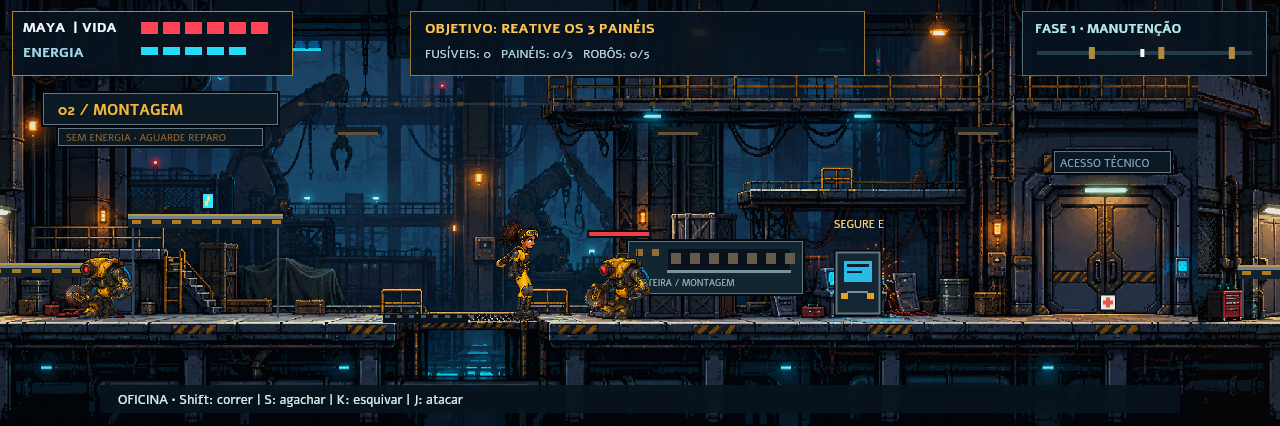
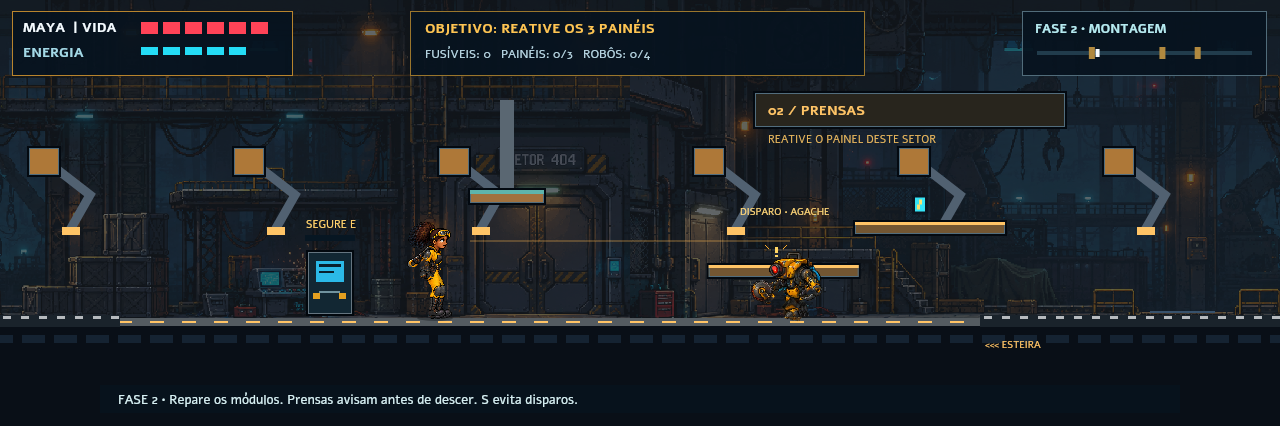
Publica campanha de tres fases de SETOR 404 e atualiza apresentacao

diff --git a/jogos/setor-404/campaign.js b/jogos/setor-404/campaign.js
@@ -1,0 +1,117 @@
+/* Campaign content: independent world rules, bosses and rendering. Maya's rig is unchanged. */
+(function(global){
+ 'use strict';
+ const F=318,W=3840,clamp=(x,a,b)=>Math.max(a,Math.min(b,x));
+ const titles=['MANUTENÇÃO','LINHA FORA DE CONTROLE','NÚCLEO 404'];
+ function create(stage=1){
+  const l=Phase1.create();l.stage=stage;l.title=titles[stage-1];l.projectiles=[];
+  l.belts=[];l.presses=[];l.locks=[];l.boss=null;
+  if(stage===1)return l;
+  l.enemies=l.enemies.slice(0,4);
+  l.enemies.forEach((e,i)=>{Object.assign(e,{x:[620,1440,2070,2630][i],min:[500,1300,1950,2520][i],max:[810,1620,2250,2740][i],hp:3,maxHP:3,elite:false});e.px=e.home=e.x;e.kind=(i===1||stage===3&&i===3)?'welder':'guard';e.id=e.kind==='welder'?(stage===2?'SOLDADOR S-02':'VIGIA N-03'):'R-04';});
+  l.stations=[{x:980,name:stage===2?'ALIMENTAÇÃO MX':'CIRCUITO A',done:false,charge:0},{x:2240,name:stage===2?'SINCRONISMO':'CIRCUITO B',done:false,charge:0},{x:2870,name:stage===2?'CONTROLE MX':'CIRCUITO C',done:false,charge:0}];
+  l.pickups=[{x:430,y:250,type:'parts',taken:false},{x:1570,y:205,type:'energy',taken:false},{x:2470,y:302,type:'health',taken:false},{x:3090,y:302,type:'energy',taken:false},{x:3160,y:302,type:'health',taken:false}];
+  l.platforms=[{x:350,y:267,w:150},{x:1350,y:265,w:150},{x:1505,y:222,w:150},{x:2460,y:267,w:145},{x:2660,y:220,w:150}];
+  l.hazards=stage===2?[{x:1800,w:65,offset:0}]:[{x:1670,w:115,offset:0,duck:true},{x:2380,w:70,offset:65},{x:3030,w:80,offset:110,duck:true}];
+  if(stage===2){l.belts=[{x:370,w:400,speed:0.65},{x:1630,w:400,speed:-0.7}];l.presses=[{x:1120,w:74,offset:0},{x:2390,w:80,offset:100}];l.platforms[1].moveX=42;}
+  else{l.locks=[{x:1240,station:0},{x:2500,station:1}];l.platforms[1].moveY=21;l.platforms[3].moveY=24;}
+  l.platforms.forEach(p=>{p.baseX=p.x;p.baseY=p.y;p.previousX=p.x;p.previousY=p.y;});
+  l.boss={x:3380,hp:stage===2?8:10,maxHP:stage===2?8:10,alive:true,mode:'idle',timer:0,target:3380,stage,name:stage===2?'BRAÇO MX-02':'SENTINELA 404',hits:0};
+  return l;
+ }
+ function count(l){return l.stations.filter(s=>s.done).length;}
+ function vulnerable(l){return l.boss&&l.boss.alive&&count(l)>=(l.stage===2?2:3)&&l.boss.mode==='recover';}
+ function damageBoss(l,hero){
+  const b=l.boss;if(!b||!b.alive||Math.abs(hero.x+32-b.x)>106||Math.sign(b.x-hero.x-32||hero.face)!==hero.face||Math.abs(hero.y+hero.h-F)>48)return null;
+  if(!vulnerable(l))return 'shield';
+  b.hp--;b.hits=8;if(b.hp<=0){b.alive=false;b.mode='dead';return 'dead';}return 'hit';
+ }
+ function preUpdate(l,hero,frame){
+  if(l.stage===1)return;
+  l.previousHeroX=hero.x;
+  for(const p of l.platforms){
+   p.previousX=p.x;p.previousY=p.y;
+   p.x=p.baseX+(p.moveX||0)*Math.sin(frame/48);p.y=p.baseY+(p.moveY||0)*Math.sin(frame/58);
+   if(hero.ground&&Math.abs(hero.y+hero.h-p.previousY)<1&&hero.x+44>p.previousX&&hero.x+20<p.previousX+p.w){hero.x+=p.x-p.previousX;hero.y+=p.y-p.previousY;}
+  }
+ }
+ function shot(l,x,y,targetX,targetY,speed=3.8){const dx=targetX-x,dy=targetY-y,d=Math.max(1,Math.hypot(dx,dy));l.projectiles.push({x,y,vx:dx/d*speed,vy:dy/d*speed,life:150});}
+ function stepEnemy(l,e,hero,enemies,onHit,onCue,stride){
+  if(e.kind!=='welder'||!e.alive||e.mode==='hurt'){Phase1.stepEnemy(e,hero,enemies,onHit,onCue,stride);return;}
+  e.px=e.x;e.previousPhase=e.phase;e.vx=0;e.timer++;
+  const dx=hero.x+32-e.x;e.face=Math.sign(dx)||e.face;
+  if(e.mode==='windup'){
+   if(e.timer>=48){shot(l,e.x+e.face*25,F-77,e.x+e.face*500,F-77);onCue('robotAttack',e.x);e.mode='recover';e.timer=0;}
+  }else if(e.mode==='recover'){if(e.timer>=65){e.mode='patrol';e.timer=0;}}
+  else if(Math.abs(dx)<440&&hero.hp>0){e.mode='windup';e.timer=0;}
+  else{e.timer--;Phase1.stepEnemy(e,hero,enemies,onHit,onCue,stride);}
+ }
+ function stepWorld(l,hero,frame,hurt,sound){
+  if(l.stage===1)return;
+  const beforeX=l.previousHeroX===undefined?hero.x:l.previousHeroX;
+  if(hero.ground&&Math.abs(hero.y+hero.h-F)<1)for(const belt of l.belts)if(hero.x+32>belt.x&&hero.x+32<belt.x+belt.w)hero.x=clamp(hero.x+belt.speed,18,l.exit-60);
+  for(const lock of l.locks)if(!l.stations[lock.station].done){if(beforeX+44<=lock.x&&hero.x+44>lock.x)hero.x=lock.x-44;else if(beforeX+20>=lock.x+14&&hero.x+20<lock.x+14)hero.x=lock.x-6;}
+  for(const p of l.presses)if(pressMode(p,frame)==='on'&&hero.x+44>p.x&&hero.x+20<p.x+p.w)hurt(p.x+p.w/2);
+  for(let i=l.projectiles.length-1;i>=0;i--){const p=l.projectiles[i];p.x+=p.vx;p.y+=p.vy;p.life--;
+   const hit=p.x+5>hero.x+20&&p.x-5<hero.x+44&&p.y+5>hero.y&&p.y-5<hero.y+hero.h;
+   if(hit)hurt(p.x);if(hit||p.life<=0||p.x<0||p.x>W)l.projectiles.splice(i,1);
+  }
+  const b=l.boss;if(!b||!b.alive)return;b.hits=Math.max(0,b.hits-1);
+  if(Math.abs(hero.x+32-b.x)>520||hero.hp<=0){b.mode='idle';b.timer=0;return;}
+  b.timer++;
+  if(b.mode==='idle'){b.mode='windup';b.timer=0;b.target=clamp(hero.x+32,b.x-210,b.x+210);sound('robotAttack',b.x);}
+  else if(b.mode==='windup'){
+   if(l.stage===3&&b.timer===24){shot(l,b.x,F-77,hero.x+32,F-77,4);if(b.hp<=4)shot(l,b.x,F-40,hero.x+32,F-40,3.2);}
+   if(b.timer>=(l.stage===3&&b.hp<=4?42:58)){b.mode='attack';b.timer=0;}
+  }else if(b.mode==='attack'){
+   if(b.timer===6&&Math.abs(hero.x+32-b.target)<62&&hero.y+hero.h>F-52)hurt(b.target);
+   if(b.timer>=18){b.mode='recover';b.timer=0;}
+  }else if(b.mode==='recover'&&b.timer>=(l.stage===2?120:b.hp<=4?90:115)){b.mode='idle';b.timer=0;}
+ }
+ function pressMode(p,frame){const t=(frame+p.offset)%240;return t<140?'off':t<185?'warning':t<214?'on':'off';}
+ function gateReady(l){return count(l)===3&&(!l.boss||!l.boss.alive);}
+ function box(g,x,y,w,h,c){g.fillStyle='#030910';g.fillRect(x-2,y-2,w+4,h+4);g.fillStyle=c;g.fillRect(x,y,w,h);g.strokeStyle='#526d7d';g.lineWidth=1;g.strokeRect(x+.5,y+.5,w-1,h-1);}
+ function drawWorld(g,bg,l,frame,robotRig){
+  if(l.stage===1){Phase1.drawWorld(g,bg,l,frame);return;}
+  const core=l.stage===3,accent=core?'#71e9ed':'#ffc466';
+  g.fillStyle=core?'#081022':'#171d23';g.fillRect(0,0,W,426);
+  for(let s=0;s<3;s++){
+   const base=s*1280;g.save();g.globalAlpha=core?.18:.32;g.drawImage(bg,base,0,1280,426);g.restore();
+   if(core){
+    for(let j=0;j<9;j++){const x=base+55+j*137;box(g,x,156,92,154,'#111d35');for(let row=0;row<9;row++){g.fillStyle='#253454';g.fillRect(x+9,165+row*15,74,9);g.fillStyle=l.stations[s].done?'#57fbc0':(frame+row*19+j*23)%110<50?'#8a6be6':'#328fbb';g.fillRect(x+65,168+row*15,9,3);}}
+   }else{
+    for(let j=0;j<6;j++){const x=base+80+j*205;g.strokeStyle='#516171';g.lineWidth=9;g.beginPath();g.moveTo(x,160);g.lineTo(x+45,195);g.lineTo(x+25,230);g.stroke();box(g,x-16,148,30,27,'#ae7838');g.fillStyle=accent;g.fillRect(x+17,227,18,8);}
+   }
+   box(g,base+125,93,310,34,core?'#151c36':'#28251d');g.fillStyle=accent;g.font='bold 14px monospace';g.fillText(['01 / '+(core?'ACESSO RESTRITO':'ESTEIRAS'), '02 / '+(core?'CIRCUITOS':'PRENSAS'),'03 / '+(core?'SENTINELA 404':'BRAÇO MX-02')][s],base+138,115);
+   g.font='11px monospace';g.fillStyle=l.stations[s].done?'#70ffce':'#e5b45b';g.fillText(l.stations[s].done?'CONTROLE RESTAURADO':'REATIVE O PAINEL DESTE SETOR',base+138,143);
+  }
+  g.fillStyle=core?'#283a53':'#545b60';g.fillRect(0,F,W,8);g.fillStyle='#090f17';g.fillRect(0,F+8,W,100);
+  for(let x=0;x<W;x+=32){g.fillStyle=accent;g.fillRect(x,F+3,14,2);g.fillStyle='#152332';g.fillRect(x,F+17,23,8);}
+  for(const p of l.platforms){box(g,p.x,p.y,p.w,12,core?'#22516c':'#735632');g.fillStyle=accent;g.fillRect(p.x,p.y,p.w,3);}
+  for(const b of l.belts){g.fillStyle='#1a232b';g.fillRect(b.x,F-3,b.w,12);for(let j=0;j<b.w;j+=18){const x=((j+frame*b.speed*2)%b.w+b.w)%b.w;g.fillStyle='#b6babe';g.fillRect(b.x+x,F-2,8,3);}g.font='10px monospace';g.fillStyle=accent;g.fillText(b.speed>0?'ESTEIRA >>>':'<<< ESTEIRA',b.x+5,F+30);}
+  for(const p of l.presses){const mode=pressMode(p,frame),y=mode==='on'?F-12:190;g.fillStyle='#5a6772';g.fillRect(p.x+p.w/2-7,100,14,y-100);box(g,p.x,y,p.w,13,'#a0713e');g.fillStyle=mode==='warning'?'#ffd45d':mode==='on'?'#ff5c50':'#5eb4ab';g.fillRect(p.x,y,p.w,4);if(mode!=='off'){g.fillStyle=mode==='warning'?'#ffbf3333':'#ed4c4544';g.fillRect(p.x,y+13,p.w,F-y-13);g.font='10px monospace';g.fillStyle='#ffe6a5';g.fillText(mode==='warning'?'PRENSA: SAIA!':'PERIGO',p.x-4,176);}}
+  for(const lock of l.locks){const open=l.stations[lock.station].done;g.fillStyle=open?'#54edbd':'#ad72ef';g.fillRect(lock.x,152,14,open?10:166);g.font='10px monospace';g.fillText(open?'ISOLADO':'CIRCUITO '+(lock.station+1),lock.x-25,143);}
+  for(const h of l.hazards){const mode=Phase1.hazardMode(h,frame),y=h.duck?F-77:F-7;g.fillStyle=mode==='on'?'#ed70f4':mode==='warning'?'#ffd16a':'#38526c';g.fillRect(h.x,y,h.w,mode==='on'?5:2);if(h.duck){g.font='10px monospace';g.fillText('S: AGACHE',h.x,y-11);}}
+  for(const p of l.projectiles){g.fillStyle=core?'#ee8aff':'#ffb14c';g.fillRect(p.x-5,p.y-4,10,8);g.fillStyle='#fff3d1';g.fillRect(p.x-2,p.y-2,4,4);}
+  for(const e of l.enemies)if(e.alive&&e.kind==='welder'&&e.mode==='windup'){g.strokeStyle='#ffb64f88';g.lineWidth=1;g.beginPath();g.moveTo(e.x,F-77);g.lineTo(e.x+e.face*320,F-77);g.stroke();g.font='10px monospace';g.fillStyle='#ffd677';g.fillText('DISPARO • AGACHE',e.x-50,F-103);}
+  drawBoss(g,l,frame,robotRig);
+  box(g,l.exit-45,190,90,126,'#172a38');g.fillStyle=l.gateOpen?'#55f2bc':'#916d39';g.fillRect(l.exit-40,195,80,6);g.font='11px monospace';g.fillText(l.gateOpen?'SAÍDA LIVRE':'SAÍDA BLOQUEADA',l.exit-55,179);
+ }
+ function drawBoss(g,l,frame,robotRig){
+  const b=l.boss;if(!b)return;const core=l.stage===3,v=vulnerable(l),color=!b.alive?'#50dfb0':v?'#ffd776':core?'#bb8bf5':'#e3a14a';
+  if(core&&robotRig){
+   g.save();g.translate(b.x,F);g.scale(1.5,1.5);robotRig.render(g,0,0,{face:-1,phase:frame*.01,moving:false,mode:b.alive?(b.mode==='idle'?'patrol':b.mode):'dead',progress:b.alive?clamp(b.timer/(b.mode==='recover'?115:b.mode==='attack'?18:58),0,1):1,hit:b.hits>0});g.restore();
+  }else{box(g,b.x-43,F-85,86,85,'#233144');g.fillStyle=color;g.fillRect(b.x-28,F-67,56,44);g.fillStyle='#101c29';g.fillRect(b.x-13,F-58,26,26);}
+  g.fillStyle=b.hits?'#fff':color;g.fillRect(b.x-7,F-52,14,14);
+  if(b.alive){
+   if(core){g.strokeStyle=color;g.lineWidth=3;g.beginPath();g.arc(b.x,F-48,48,frame*.02,frame*.02+Math.PI*1.6);g.stroke();}
+   else{const endX=b.mode==='idle'?b.x-70:b.target,endY=b.mode==='attack'?F-10:b.mode==='windup'?F-120:F-140;g.strokeStyle='#101923';g.lineWidth=22;g.beginPath();g.moveTo(b.x,F-65);g.lineTo(b.x-55,F-175);g.lineTo(endX,endY);g.stroke();g.strokeStyle=color;g.lineWidth=12;g.stroke();for(const [x,y] of [[b.x,F-65],[b.x-55,F-175],[endX,endY]]){g.fillStyle='#ccd3cb';g.fillRect(x-7,y-7,14,14);g.fillStyle='#304557';g.fillRect(x-3,y-3,6,6);}g.fillStyle='#bac7c7';g.fillRect(endX-22,endY-8,44,17);}
+   if(b.mode==='windup'||b.mode==='attack'){g.fillStyle=b.mode==='windup'?'#ffbf3a77':'#ff4a4aa0';g.fillRect(b.target-60,F-4,120,6);g.strokeStyle=color;g.lineWidth=1;g.strokeRect(b.target-60,F-58,120,56);}
+  }
+  box(g,b.x-142,86,284,43,'#0c1522');g.font='bold 12px monospace';g.fillStyle=color;g.fillText(b.name+(b.alive?'':' • DESATIVADO'),b.x-132,102);
+  if(core&&b.alive){g.font='10px monospace';g.fillStyle=color;g.fillText(count(l)<3?'ETAPA 1 / ESCUDO':b.hp>4?'ETAPA 2 / SUPERAQUECIMENTO':'ETAPA 3 / NÚCLEO INSTÁVEL',b.x-138,159);}
+  g.fillStyle='#423344';g.fillRect(b.x-130,110,260,7);g.fillStyle=color;g.fillRect(b.x-130,110,260*b.hp/b.maxHP,7);
+  g.font='10px monospace';g.fillStyle='#e0d8eb';const text=!b.alive?'CONTROLE RECUPERADO':v?'NÚCLEO EXPOSTO • ATAQUE J':count(l)<(core?3:2)?'DESLIGUE '+(core?'3 CIRCUITOS':'2 PAINÉIS')+' PARA REMOVER O ESCUDO':b.mode==='recover'?'RECUPERAÇÃO':'ESQUIVE / PULE • AGUARDE ABERTURA';g.fillText(text,b.x-138,144);
+ }
+ global.Campaign={create,titles,count,vulnerable,damageBoss,preUpdate,stepEnemy,stepWorld,gateReady,pressMode,drawWorld};
+})(typeof window!=='undefined'?window:globalThis);

diff --git a/jogos/setor-404/game.js b/jogos/setor-404/game.js
@@ -6,7 +6,7 @@ bg.src='assets/cenario.png';mayaSource.src='assets/maya-rig-source.png';robotSou
 const FLOOR=Phase1.FLOOR,STEP=1000/60,WALK_SPEED=1.6,RUN_SPEED=2.9,CROUCH_SPEED=0.75,DEATH_TICKS=96,DODGE_TICKS=28;
 const keys=new Set(),pressed=new Set(),particles=[],dodgeTrails=[];
 const maya={},camera={x:0,previous:0};
-let level=Phase1.create(),ready=false,active=false,paused=false,won=false,mayaRig,robotRig;
+let stage=1,level=Campaign.create(stage),ready=false,active=false,paused=false,won=false,mayaRig,robotRig;
 let frame=0,lastTime=null,accumulator=0,toastTime=0,toastText='',fuses=0,score=0,defeated=0;
 const audio=SectorAudio;
 const clamp=(n,a,b)=>Math.max(a,Math.min(b,n));
@@ -27,21 +27,23 @@ function placeMaya(x){
     crouch:0,previousCrouch:0,run:0,previousRun:0,takeoff:0,jumpFlight:false,landing:0,landingStrength:0,
     dead:false,deathTime:0,previousDeath:0});
 }
-function reset(){
-  level=Phase1.create();frame=0;fuses=0;score=0;defeated=0;particles.length=0;
+function reset(nextStage=stage){
+  stage=clamp(Number(nextStage)||1,1,3);level=Campaign.create(stage);frame=0;fuses=0;score=0;defeated=0;particles.length=0;
   placeMaya(125);dodgeTrails.length=0;camera.x=0;camera.previous=0;
-  begin();notify('OFICINA • Shift: correr | S: agachar | K: esquivar | J: atacar',420);
+  begin();notify(stage===1?'OFICINA • Shift: correr | S: agachar | K: esquivar | J: atacar':stage===2?'FASE 2 • Repare os módulos. Prensas avisam antes de descer. S evita disparos.':'FASE 3 • Isole os circuitos para abrir portas. O núcleo só recebe dano exposto.',480);
 }
 function begin(){
   releaseInput();active=true;won=false;paused=false;lastTime=null;accumulator=0;
   document.querySelector('#start').hidden=true;document.querySelector('#result').hidden=true;
   document.querySelector('#pause-overlay').hidden=true;document.querySelector('#pause').textContent='PAUSAR';
+  document.querySelector('#stage-heading').textContent='FASE '+stage+' / '+level.title;
   audio.setPaused(false);audio.setIntensity(0);audio.unlock();updateSoundButton();
 }
 function respawn(){
   placeMaya(level.checkpoint);dodgeTrails.length=0;particles.length=0;
   for(const e of level.enemies){if(!e.alive)continue;e.x=e.home;e.px=e.home;e.hp=e.maxHP;e.mode='patrol';e.timer=0;e.vx=0;}
   for(const s of level.stations)s.charge=0;
+  level.projectiles.length=0;if(level.boss&&level.boss.alive){level.boss.hp=level.boss.maxHP;level.boss.mode='idle';level.boss.timer=0;}
   camera.x=clamp(maya.x-420,0,Phase1.WIDTH-1280);camera.previous=camera.x;
   begin();notify('CHECKPOINT • Energia e vida restauradas.');
 }
@@ -59,7 +61,8 @@ function updateSoundButton(){
 document.querySelector('#play').onclick=()=>{if(ready)reset();};
 document.querySelector('#restart').onclick=()=>{if(ready)reset();};
 document.querySelector('#retry').onclick=()=>{if(ready)respawn();};
-document.querySelector('#again').onclick=()=>{if(ready)reset();};
+document.querySelector('#again').onclick=()=>{if(ready)reset(won&&stage<3?stage+1:won?1:stage);};
+for(const number of [1,2,3])document.querySelector('#stage'+number).onclick=()=>{if(ready)reset(number);};
 document.querySelector('#pause').onclick=()=>setPaused(!paused);
 document.querySelector('#resume').onclick=()=>setPaused(false);
 document.querySelector('#sound').onclick=()=>{audio.setEnabled(!audio.isEnabled());if(active&&!paused&&!maya.dead)audio.unlock();updateSoundButton();};
@@ -109,6 +112,9 @@ function mayaState(t=1){
 }
 function strike(){
   sound('attack');
+  const bossHit=Campaign.damageBoss(level,maya);
+  if(bossHit==='shield'){sound('robotHurt');notify('ESCUDO ATIVO • Repare os painéis e ataque na recuperação.',100);}
+  if(bossHit==='hit'||bossHit==='dead'){puff(level.boss.x,FLOOR-45,12,'#ffdf8b');sound(bossHit==='dead'?'explosion':'robotHurt');if(bossHit==='dead'){score+=500;notify(level.boss.name+' DESATIVADO • Termine os reparos e alcance a saída.',260);}}
   for(const e of level.enemies){
     const dx=e.x-(maya.x+32),dy=Math.abs(maya.y+maya.h-FLOOR);
     if(!e.alive||Math.sign(dx||maya.face)!==maya.face||Math.abs(dx)>105||dy>48)continue;
@@ -225,11 +231,12 @@ function updateObjectives(){
         s.done=true;fuses--;score+=200;level.checkpoint=s.x+70;
         maya.hp=Math.min(6,maya.hp+2);maya.energy=5;sound('repair');
         notify(s.name+' ONLINE • Checkpoint ativado.',230);
-        if(level.stations.every(panel=>panel.done)){level.gateOpen=true;notify('ENERGIA RESTAURADA • Alcance a saída à direita.',360);}
+        if(level.stations.every(panel=>panel.done))notify(level.boss&&level.boss.alive?'CIRCUITOS RECUPERADOS • Enfrente o chefe e ataque quando o núcleo estiver exposto.':'ENERGIA RESTAURADA • Alcance a saída à direita.',360);
       }
     }else{s.charge=Math.max(0,s.charge-3);
       if(nearby&&tap('e'))notify(danger?'ÁREA EM RISCO • Desative o robô antes do reparo.':fuses===0?'FALTA UM FUSÍVEL • Recupere-o dos robôs.':'SEGURE E POR 1 SEGUNDO PARA REPARAR.',130);}
   }
+  level.gateOpen=Campaign.gateReady(level);
   if(level.gateOpen&&maya.x+32>level.exit){won=true;active=false;releaseInput();audio.stop();audio.sfx('victory');showResult(true);}
 }
 function update(){
@@ -237,17 +244,20 @@ function update(){
   frame++;camera.previous=camera.x;if(toastTime>0)toastTime--;
   for(let i=dodgeTrails.length-1;i>=0;i--)if(--dodgeTrails[i].life<=0)dodgeTrails.splice(i,1);
   if(maya.dead){updateDeath();return;}
+  Campaign.preUpdate(level,maya,frame);
   updateMaya();
   for(const e of level.enemies){
     if(!active||maya.dead)break;
-    Phase1.stepEnemy(e,maya,level.enemies,enemy=>{
+    Campaign.stepEnemy(level,e,maya,level.enemies,enemy=>{
       if(Math.abs(maya.y+maya.h-FLOOR)<46)hurtMaya(enemy.x);
     },(name,x)=>{if(name!=='alert')sound(name,x);},R04Rig.STRIDE);
   }
   if(!active||maya.dead)return;
   for(const h of level.hazards){
-    if(Phase1.hazardMode(h,frame)==='on'&&maya.x+44>h.x&&maya.x+20<h.x+h.w&&Math.abs(maya.y+maya.h-FLOOR)<16)hurtMaya(h.x+h.w/2);
+    const heightHit=h.duck?maya.y<FLOOR-72&&maya.y+maya.h>FLOOR-80:Math.abs(maya.y+maya.h-FLOOR)<16;
+    if(Phase1.hazardMode(h,frame)==='on'&&maya.x+44>h.x&&maya.x+20<h.x+h.w&&heightHit)hurtMaya(h.x+h.w/2);
   }
+  Campaign.stepWorld(level,maya,frame,hurtMaya,sound);
   if(!active||maya.dead)return;
   updateObjectives();
   const target=clamp(maya.x+32-480+maya.vx*30,0,Phase1.WIDTH-1280);
@@ -259,13 +269,13 @@ function update(){
 
 function showResult(success){
   document.querySelector('#result').hidden=false;
-  document.querySelector('#result-title').textContent=success?'FASE 1 CONCLUÍDA':'SISTEMA CRÍTICO';
+  document.querySelector('#result-title').textContent=success?(stage===3?'FÁBRICA RECUPERADA!':'FASE '+stage+' CONCLUÍDA'):'SISTEMA CRÍTICO';
   const minutes=Math.floor(frame/3600),seconds=String(Math.floor(frame/60)%60).padStart(2,'0');
   document.querySelector('#result-info').textContent=success?
-    'Energia restaurada • '+defeated+'/5 robôs • '+score+' pontos • '+minutes+':'+seconds:
+    (stage===3?'Maya recuperou o controle da fábrica. Campanha concluída! • ':'Setor recuperado • ')+defeated+'/'+level.enemies.length+' robôs • '+score+' pontos • '+minutes+':'+seconds:
     'Maya precisa de manutenção. Continue do último painel ativado.';
   document.querySelector('#retry').hidden=success;
-  document.querySelector('#again').textContent=success?'JOGAR NOVAMENTE':'REINICIAR FASE';
+  document.querySelector('#again').textContent=success?(stage<3?'CONTINUAR PARA FASE '+(stage+1):'RECOMEÇAR CAMPANHA'):'REINICIAR FASE';
 }
 function drawEnemy(e,alpha){
   if(!e.alive&&e.timer>50)return;
@@ -290,10 +300,10 @@ function drawHUD(){
   for(let i=0;i<5;i++){ctx.fillStyle=i<maya.energy?'#24dcf6':'#23414c';ctx.fillRect(141+i*22,47,17,8);}
   const powered=level.stations.filter(s=>s.done).length;
   ctx.fillStyle='#07121eeb';ctx.fillRect(410,11,455,65);ctx.strokeStyle='#9a762c';ctx.strokeRect(410.5,11.5,454,64);
-  ctx.fillStyle='#ffc552';ctx.fillText(level.gateOpen?'OBJETIVO: ALCANCE A SAÍDA':'OBJETIVO: REATIVE OS 3 PAINÉIS',425,33);
-  ctx.fillStyle='#b9d8e5';ctx.font='12px monospace';ctx.fillText('FUSÍVEIS: '+fuses+'   PAINÉIS: '+powered+'/3   ROBÔS: '+defeated+'/5',425,58);
+  ctx.fillStyle='#ffc552';ctx.fillText(level.gateOpen?'OBJETIVO: ALCANCE A SAÍDA':Campaign.count(level)===3&&level.boss&&level.boss.alive?'OBJETIVO: DERROTE '+level.boss.name:'OBJETIVO: REATIVE OS 3 PAINÉIS',425,33);
+  ctx.fillStyle='#b9d8e5';ctx.font='12px monospace';ctx.fillText('FUSÍVEIS: '+fuses+'   PAINÉIS: '+powered+'/3   ROBÔS: '+defeated+'/'+level.enemies.length,425,58);
   ctx.fillStyle='#07121eeb';ctx.fillRect(1022,11,245,65);ctx.strokeStyle='#516c7a';ctx.strokeRect(1022.5,11.5,244,64);
-  ctx.font='bold 13px monospace';ctx.fillStyle='#b5eaf0';ctx.fillText('FASE 1 • MANUTENÇÃO',1035,33);
+  ctx.font='bold 13px monospace';ctx.fillStyle='#b5eaf0';ctx.fillText('FASE '+stage+' • '+['MANUTENÇÃO','MONTAGEM','NÚCLEO 404'][stage-1],1035,33);
   ctx.fillStyle='#213c4c';ctx.fillRect(1037,51,215,4);
   for(const s of level.stations){ctx.fillStyle=s.done?'#31ebb3':'#b1893f';ctx.fillRect(1037+s.x/Phase1.WIDTH*215-3,47,6,12);}
   ctx.fillStyle='#f9fcff';ctx.fillRect(1037+(maya.x+32)/Phase1.WIDTH*215-2,49,4,8);
@@ -303,7 +313,7 @@ function draw(alpha=1){
   ctx.clearRect(0,0,1280,426);
   if(!ready){ctx.fillStyle='#08131d';ctx.fillRect(0,0,1280,426);return;}
   const t=active&&!won&&!paused?alpha:1,cam=Math.round(lerp(camera.previous,camera.x,t));
-  ctx.save();ctx.translate(-cam,0);Phase1.drawWorld(ctx,bg,level,frame);
+  ctx.save();ctx.translate(-cam,0);Campaign.drawWorld(ctx,bg,level,frame,robotRig);
   for(const s of level.stations)Phase1.drawStation(ctx,s,frame);
   for(const p of level.pickups)if(p.x>cam-30&&p.x<cam+1310)Phase1.drawPickup(ctx,p,frame);
   for(const e of level.enemies)drawEnemy(e,t);

diff --git a/assets/setor404.js b/assets/setor404.js
@@ -2,12 +2,12 @@
 function criarCardSetor404(jogo, iniciar) {
   const card=el('section','setor-card');card.setAttribute('aria-label','Conheça SETOR 404');
   const hero=el('div','setor-hero'),texto=el('div','setor-texto');
-  texto.append(el('span','setor-selo','AÇÃO INDUSTRIAL · FASE 1 JOGÁVEL'));
+  texto.append(el('span','setor-selo','AÇÃO INDUSTRIAL · CAMPANHA COM 3 FASES'));
   const titulo=el('h2','setor-titulo','SETOR ');titulo.append(el('span',null,'404'));
   texto.append(titulo,el('p','setor-chamada','A fábrica parou. Você é a solução.'),
     el('p','setor-resumo','Vista o macacão de Maya Ferreira, técnica de manutenção. Enfrente robôs corrompidos, recupere fusíveis e devolva a energia à fábrica — um setor de cada vez.'));
   const fatos=el('div','setor-fatos');
-  ['3 setores industriais','5 robôs para enfrentar','3 painéis para reativar'].forEach(t=>fatos.append(el('span',null,t)));
+  ['3 fases industriais','2 chefes industriais','9 painéis para reativar'].forEach(t=>fatos.append(el('span',null,t)));
   const jogar=el(iniciar?'button':'a','botao setor-jogar','▶ Jogar SETOR 404');
   if(iniciar){jogar.type='button';jogar.onclick=iniciar;}else jogar.href='jogo.html?id=setor-404';
   texto.append(fatos,jogar,el('p','setor-nota','Grátis · Computador com teclado · Sem instalação'));
@@ -16,13 +16,13 @@ function criarCardSetor404(jogo, iniciar) {
   const legenda=el('figcaption');legenda.append(el('strong',null,'MAYA FERREIRA'),el('span',null,'Técnica de manutenção · Sua personagem'));
   maya.append(retrato,legenda);hero.append(texto,maya);
   const recursos=el('div','setor-recursos');
-  [['MANUTENÇÃO EM AÇÃO','Recupere fusíveis dos robôs e segure E nos painéis para restaurar a energia.'],['A FÁBRICA RESPONDE','Luzes acendem, a bomba gira, a esteira se move e o gerador entra em operação após os reparos.'],['COMBATE E EXPLORAÇÃO','Ataque com a chave, esquive, corra e alcance plataformas. Os painéis reparados ativam checkpoints.']].forEach(([h,p])=>{const a=el('article');a.append(el('h3',null,h),el('p',null,p));recursos.append(a);});
+  [['MANUTENÇÃO EM AÇÃO','Recupere fusíveis e segure E nos painéis. A Fase 1 preserva os movimentos aprovados da Maya.'],['LINHA FORA DE CONTROLE','Esteiras, prensas sinalizadas e soldadores. Repare os módulos e enfrente o Braço MX-02.'],['NÚCLEO 404','Isole circuitos para abrir portas e remover o escudo da Sentinela 404. Ataque quando o núcleo estiver exposto.']].forEach(([h,p])=>{const a=el('article');a.append(el('h3',null,h),el('p',null,p));recursos.append(a);});
   const galeria=el('div','setor-galeria');
-  [['oficina.png','Oficina','Explore a fábrica e enfrente os robôs.'],['montagem.png','Montagem','Recupere energia para continuar a missão.'],['central.png','Central de Energia','Reative os três painéis para liberar a saída.']].forEach(([arquivo,nome,descricao])=>{
+  [['oficina.png','Fase 1 — Manutenção','Restaure a energia e ative os checkpoints.'],['montagem.png','Fase 2 — Montagem','Esteiras, prensas e o Braço MX-02.'],['central.png','Fase 3 — Núcleo 404','Isole circuitos e enfrente a Sentinela 404.']].forEach(([arquivo,nome,descricao])=>{
     const figura=el('figure'),img=el('img');img.src='assets/setor-404/'+arquivo;img.alt='Imagem do jogo — '+nome;img.loading='lazy';img.decoding='async';img.width=1280;img.height=426;
     const caption=el('figcaption');caption.append(el('strong',null,nome),el('span',null,descricao));figura.append(img,caption);galeria.append(figura);
   });
-  card.append(hero,recursos,el('h3','setor-galeria-titulo','POR DENTRO DA FASE 1'),galeria,
+  card.append(hero,recursos,el('h3','setor-galeria-titulo','POR DENTRO DAS 3 FASES'),galeria,
     el('p','setor-rodape','Projeto educacional com temática industrial para apresentação no SENAI. Versão para teclado; sem controles de toque. O progresso é mantido durante a partida, não após recarregar a página.'));
   return card;
 }

diff --git a/jogos/setor-404/index.html b/jogos/setor-404/index.html
@@ -3,14 +3,14 @@
 <head>
   <meta charset="utf-8">
   <meta name="viewport" content="width=device-width,initial-scale=1">
-  <title>SETOR 404 — Fase 1</title>
-  <meta name="description" content="Fase 1 de SETOR 404: restaure a energia da fábrica e enfrente os robôs corrompidos.">
+  <title>SETOR 404 — Campanha</title>
+  <meta name="description" content="Três fases de SETOR 404: restaure a energia, recupere a linha de montagem e enfrente a Sentinela 404.">
   <link rel="stylesheet" href="style.css?v=8">
 </head>
 <body>
   <main class="shell">
-    <header><h1>SETOR <span>404</span></h1><p>FASE 1 <span class="separator">/</span> SETOR DE MANUTENÇÃO</p></header>
-    <section class="game-wrap" aria-label="Fase 1 de Setor 404">
+    <header><h1>SETOR <span>404</span></h1><p id="stage-heading">CAMPANHA / 3 FASES INDUSTRIAIS</p></header>
+    <section class="game-wrap" aria-label="Campanha de três fases de Setor 404">
       <canvas id="game" width="1280" height="426" tabindex="0" aria-label="Jogo de ação lateral. A e D: andar. S: agachar. Shift: correr. W: pular. J: atacar. K: esquivar. E: reparar."></canvas>
       <div id="start" class="overlay">
         <div class="mission-card"><p class="eyebrow">PROTOCOLO DE EMERGÊNCIA • 01</p><h2>A LINHA PAROU.<br>A MISSÃO COMEÇOU.</h2>
@@ -34,6 +34,7 @@
       <div><kbd>P</kbd><span>Pausa</span></div>
     </section>
     <section class="toolbar" aria-label="Opções do jogo">
+      <div class="options" aria-label="Selecionar fase"><span>FASES:</span><button id="stage1" class="secondary">1 · MANUTENÇÃO</button><button id="stage2" class="secondary">2 · MONTAGEM</button><button id="stage3" class="secondary">3 · NÚCLEO 404</button></div>
       <p>Recupere fusíveis. Repare os painéis. Alcance a saída.</p>
       <div class="options"><button id="sound" class="secondary" aria-pressed="true">SOM: LIGADO</button><label for="volume">VOLUME <input id="volume" type="range" min="0" max="100" value="34" aria-label="Volume da música e efeitos"></label><button id="pause" class="secondary">PAUSAR</button><button id="restart" class="secondary">REINICIAR FASE</button></div>
     </section>
@@ -41,7 +42,8 @@
   <script src="maya-rig.js?v=7"></script>
   <script src="r04-rig.js?v=7"></script>
   <script src="phase1-level.js?v=9"></script>
+  <script src="campaign.js?v=20261028"></script>
   <script src="audio.js?v=7"></script>
-  <script src="game.js?v=7"></script>
+  <script src="game.js?v=20261028"></script>
 </body>
 </html>

diff --git a/jogos.js b/jogos.js
@@ -39,11 +39,11 @@ window.JOGOS = [
     cardSetor404: true,
     titulo: "SETOR 404",
     genero: ["Ação", "RPG", "Plataforma"],
-    tags: ["pixel art", "indústria", "manutenção", "Maya Ferreira", "SENAI", "fase 1"],
-    descricao: "A fábrica parou. Assuma o papel de Maya Ferreira, técnica de manutenção, enfrente cinco robôs corrompidos e recupere os fusíveis. Reative os três painéis da Oficina, Montagem e Central de Energia para liberar a saída. Fase 1 jogável, com checkpoints e trilha industrial.",
+    tags: ["pixel art", "indústria", "manutenção", "Maya Ferreira", "SENAI", "3 fases", "chefes"],
+    descricao: "Três fases industriais com Maya Ferreira: restaure a energia, recupere a linha de montagem e isole os circuitos do Núcleo 404. Enfrente esteiras, prensas, robôs soldadores, o Braço MX-02 e a Sentinela 404. Campanha com checkpoints e seleção de fase para apresentação.",
     controles: "Computador com teclado: A/D ou setas andam; S agacha; S+A/D anda agachada; Shift+A/D corre; W/Espaço/cima pula; J/X ataca com a chave; K esquiva; segure E por 1 segundo para reparar um painel seguro com fusível. P/Esc pausa; M alterna o áudio. Clique em INICIAR FASE 1 para começar. O progresso dura apenas durante a partida; recarregar reinicia a fase.",
     url: "jogos/setor-404/index.html",
-    versao: "1.1.0-energia",
+    versao: "2.0.0-campanha",
     capa: "assets/setor-404/capa.png",
     cor: "#ffb42c",
     icone: "🔧",

diff --git a/index.html b/index.html
@@ -85,11 +85,11 @@
     <p class="rodape-credito">© <span data-ano></span> <span data-site-autor></span> · Jogos feitos com carinho, grátis no navegador. Contamos as visitas de forma anônima, sem cookies.</p>
   </footer>
 
-  <script src="jogos.js?v=20261028-st10"></script>
+  <script src="jogos.js?v=20261028-setor404-campanha"></script>
   <script src="assets/estatisticas.js?v=20261025"></script>
   <script src="assets/vendor/qrcode.js?v=1.4.4"></script>
   <script src="assets/doacao.js?v=20261025"></script>
-  <script src="assets/setor404.js?v=20261023-card"></script>
+  <script src="assets/setor404.js?v=20261028-campanha"></script>
   <script src="assets/faisca.js?v=20261024-final20"></script>
   <script src="assets/lenda-da-brasa.js?v=20261026-acoes"></script>
   <script src="assets/imperio-industrial.js?v=20261023-final"></script>

diff --git a/jogo.html b/jogo.html
@@ -93,11 +93,11 @@
     <p class="rodape-credito">© <span data-ano></span> <span data-site-autor></span> · Jogos feitos com carinho, grátis no navegador. Contamos as visitas de forma anônima, sem cookies.</p>
   </footer>
 
-  <script src="jogos.js?v=20261028-v08"></script>
+  <script src="jogos.js?v=20261028-setor404-campanha"></script>
   <script src="assets/estatisticas.js?v=20261025"></script>
   <script src="assets/vendor/qrcode.js?v=1.4.4"></script>
   <script src="assets/doacao.js?v=20261025"></script>
-  <script src="assets/setor404.js?v=20261023-card"></script>
+  <script src="assets/setor404.js?v=20261028-campanha"></script>
   <script src="assets/faisca.js?v=20261024-final20"></script>
   <script src="assets/lenda-da-brasa.js?v=20261026-acoes"></script>
   <script src="assets/imperio-industrial.js?v=20261023-final"></script>

diff --git a/README.md b/README.md
@@ -56,6 +56,8 @@ o site precisa dos cabeçalhos do arquivo `_headers`.
 
 ### SETOR 404
 
+Atualização 2.0.0: campanha com três fases, seleção direta pelos botões FASES no jogo e continuação após cada vitória. `campaign.js` mantém as regras da Fase 1 e acrescenta esteiras, prensas, soldadores, portas de circuito, plataformas móveis, Braço MX-02 e Sentinela 404. Os arquivos de articulação da Maya não foram alterados. As imagens de Montagem e Núcleo são capturas do renderizador das novas fases. Recarregar reinicia a sessão; não há salvamento permanente. O jogo estático continua sem dependências ou build.
+
 O card de apresentação aparece na vitrine e na página do SETOR 404. Usa `assets/setor404.js`, `assets/setor404.css`, o campo `cardSetor404` no catálogo e imagens em `assets/setor-404/`: retrato articulado de Maya e três capturas do renderizador do jogo. Informa missão, setores, robôs, reparos, checkpoints e requisitos de teclado sem apresentar avaliações fictícias. O botão da página reutiliza o jogador existente e recolhe a apresentação ao iniciar. Na vitrine, o card acompanha os filtros e a busca. Não modifica o destaque principal nem as regras do jogo.
 
 `SETOR 404` está disponível em `jogo.html?id=setor-404`, com a Fase 1 em `jogos/setor-404/` e capa em `assets/setor-404/capa.png`. É um jogo HTML5 para computador com teclado, sem instalação, compilação ou controles de toque. Os recursos são carregados por caminhos relativos para funcionar no subdiretório do GitHub Pages. Música e efeitos começam apenas após clicar em **INICIAR FASE 1**.
